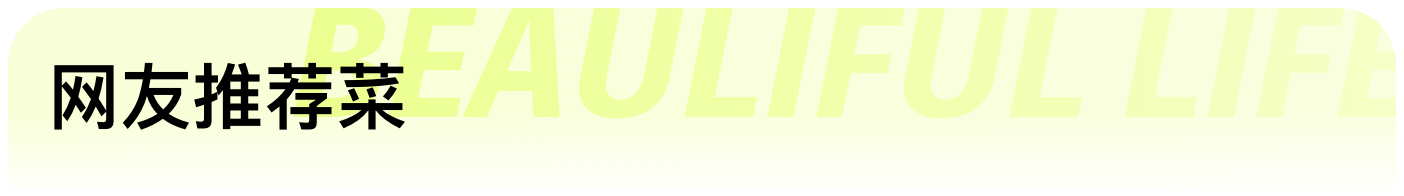
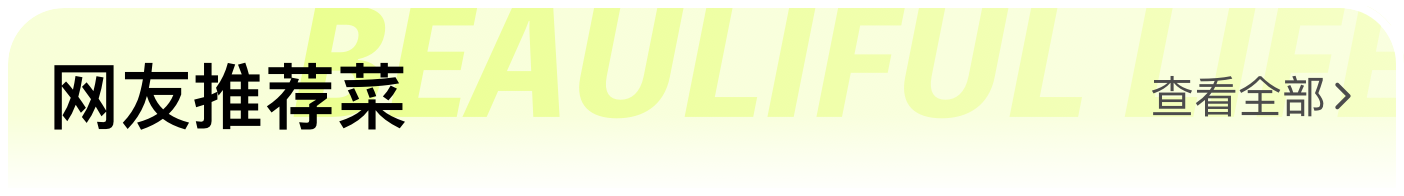
feat: 更新三清潭烧鹅页面TOP标签样式和位置

Changed region(s): [[0.7963, 0.398, 0.9801, 0.6122]]

diff --git a/src/pages/SanqingtanRestaurant.jsx b/src/pages/SanqingtanRestaurant.jsx
@@ -107,7 +107,7 @@ const SanqingtanRestaurantDrawer = ({ onClose }) => {
       {/* 店铺信息 */}
       <div className="relative">
         <img 
-          src="./店铺详情头图@2x.png"
+          src="/店铺详情头图@2x.png"
           alt={store.name}
           className="w-full object-cover"/>
         
@@ -195,7 +195,7 @@ const SanqingtanRestaurantDrawer = ({ onClose }) => {
                 </div>
                 <div className="space-y-[5px]">
                   {packages.map((pkg) => (
-                    <div key={pkg.id} className="flex items-center bg-white rounded">
+                    <div key={pkg.id} className="flex items-center bg-white rounded h-[53px]">
                       <img 
                         src={pkg.image}
                         alt={pkg.name}
@@ -225,11 +225,11 @@ const SanqingtanRestaurantDrawer = ({ onClose }) => {
                     <h3 className="font-medium" style={{ color: '#000000' }}>超值代金券</h3>
                   </div>
                 </div>
-                <div className="flex flex-col gap-[5px]">
+                <div className="flex flex-col gap-[6px]">
                   {vouchers.map((voucher, index) => (
                     <div 
                       key={voucher.id} 
-                      className={`h-[53px] p-2 rounded-xl flex items-center ${index !== vouchers.length - 1 ? 'mb-[5px]' : ''}`}
+                      className="min-h-[53px] p-1 rounded-xl flex items-center"
                       style={{
                         background: 'linear-gradient(270deg, #FFFBFE 44%, #FFF1F8 99%)',
                         border: '0.5px solid #FFF1F8',
@@ -238,12 +238,15 @@ const SanqingtanRestaurantDrawer = ({ onClose }) => {
                       }}
                     >
                       <div className="flex justify-between items-center w-full">
-                        <div>
-                          <div className="flex items-baseline">
-                            <span className="text-red-500 text-lg">¥{voucher.price}</span>
-                            <span className="text-gray-500 text-xs ml-1">代{voucher.value}</span>
+                        <div className="flex flex-col">
+                          <div className="text-xs font-medium" style={{ color: '#000000', fontSize: '12px' }}>
+                            {`${voucher.price}代${voucher.value}代金券`}
                           </div>
-                          <p className="text-gray-500 text-xs mt-1">{voucher.description}</p>
+                          <p className="text-gray-500" style={{ fontSize: '10px' }}>{voucher.description}</p>
+                        </div>
+                        <div className="flex items-baseline">
+                          <span className="text-red-500">¥</span>
+                          <span className="text-red-500 text-lg">{voucher.price}</span>
                         </div>
                       </div>
                     </div>
@@ -254,21 +257,28 @@ const SanqingtanRestaurantDrawer = ({ onClose }) => {
           </div>
 
           {/* 网友推荐菜 */}
-          <div className="bg-white mt-2 px-3 py-4 pb-20">
-            <div className="flex justify-between items-center mb-4">
-              <h3 className="font-medium">网友推荐菜</h3>
-              <span className="text-sm text-gray-500">查看全部&gt;</span>
+          <div className="bg-white mx-3 rounded-2xl">
+            <div className="relative w-[351px] mx-auto">
+              <img 
+                src="/网友推荐菜@2x.png"
+                alt="网友推荐菜"
+                className="w-full h-full object-contain"
+              />
             </div>
-            <div className="grid grid-cols-3 gap-4">
+            <div className="grid grid-cols-3 gap-[6px] px-3 pb-20">
               {recommendedDishes.map((dish) => (
-                <div key={dish.id} className="relative">
+                <div key={dish.id} className="relative aspect-square">
                   <img 
                     src={dish.image}
                     alt={dish.name}
-                    className="w-full h-24 rounded object-cover"
+                    className="w-full h-full rounded-lg object-cover"
                   />
-                  <div className="absolute top-2 left-2 bg-black/50 text-white text-xs px-2 py-1 rounded">
-                    {dish.name}
+                  <div className="absolute left-[5px] -top-[3px]">
+                    <img 
+                      src={`/TOP${dish.id}.png`}
+                      alt={dish.name}
+                      className="w-12 h-6 object-contain"
+                    />
                   </div>
                 </div>
               ))}
